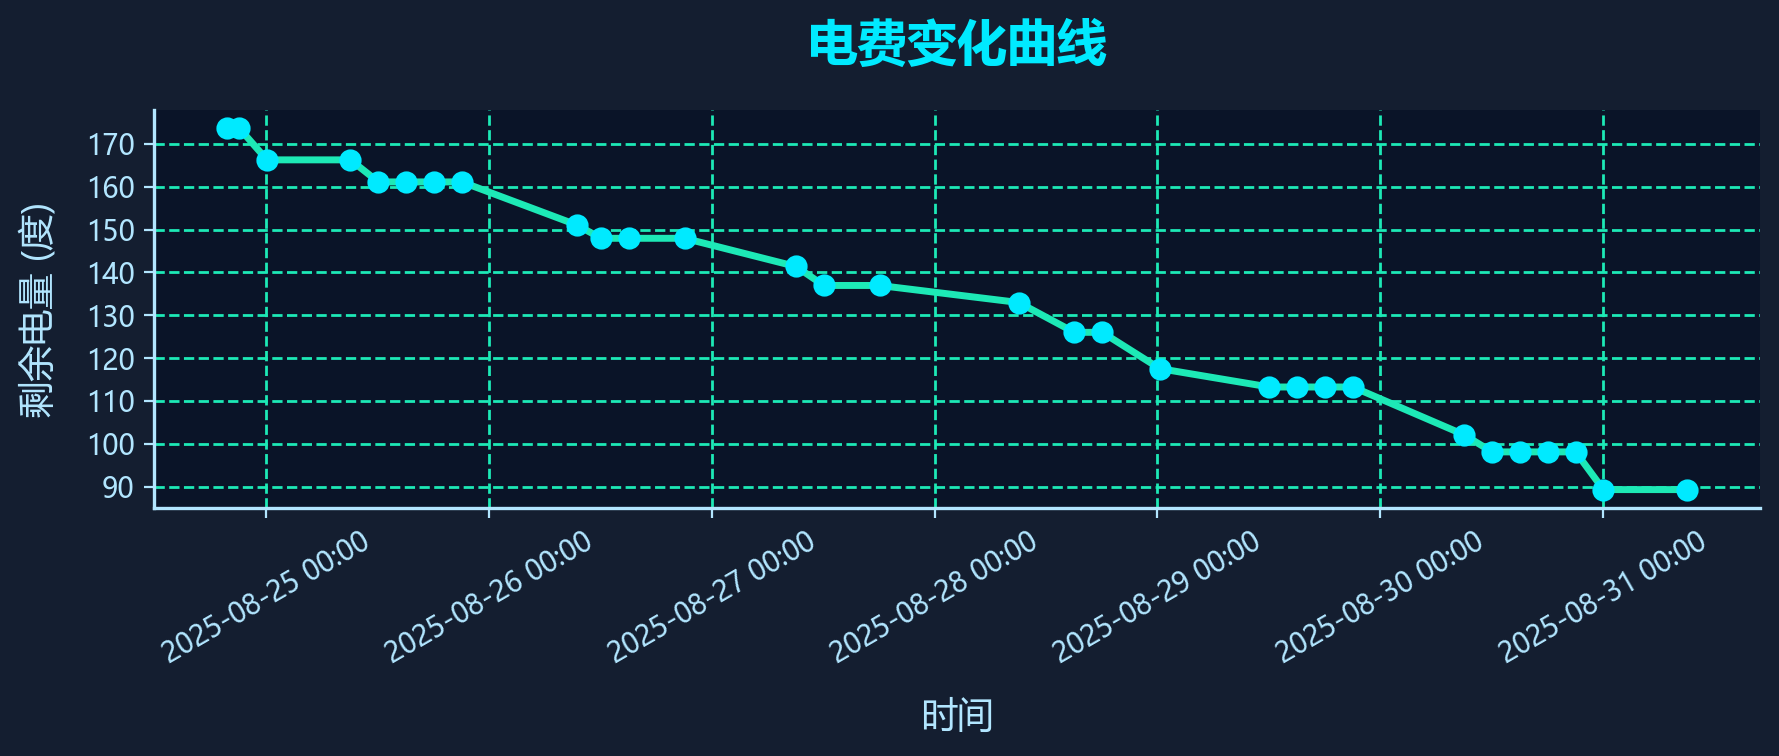
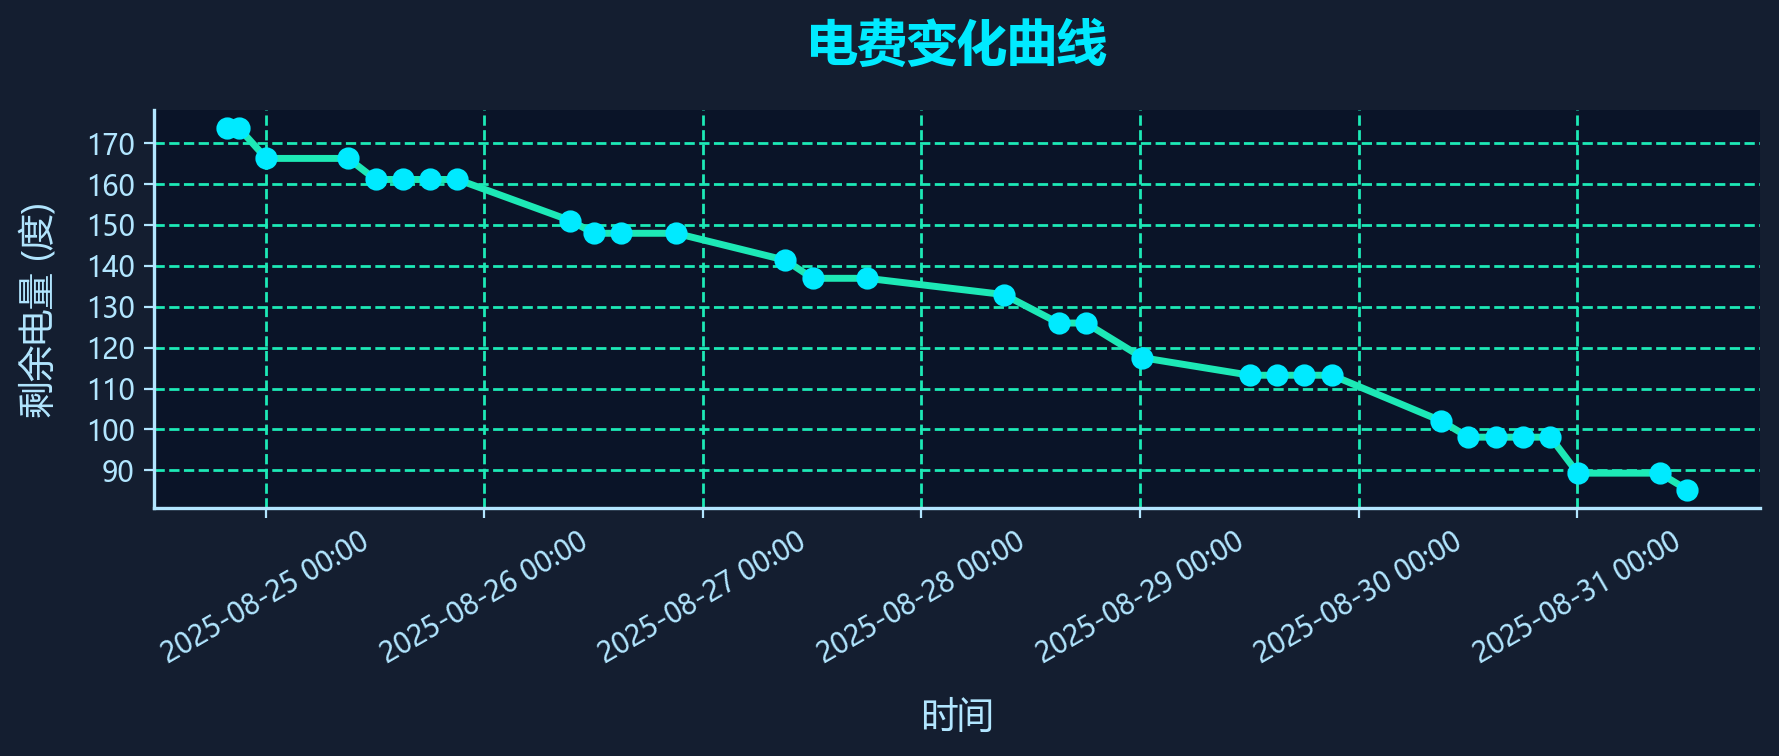
2025-08-31 12:03 自动提交电费变更

diff --git a/data/debug_page_source.html b/data/debug_page_source.html
@@ -2,7 +2,7 @@
     <meta http-equiv="Content-Type" content="text/html; charset=UTF-8">
     <meta http-equiv="X-UA-Compatible" content="IE=edge">
     <meta name="viewport" content="width=device-width, initial-scale=1, user-scalable=no">
-    <meta name="_csrf" content="7f46b8b9-85e0-4599-8257-20ba317c5a0d">
+    <meta name="_csrf" content="57badfdc-db40-4007-b65f-41e2ab20ae10">
     <meta name="_csrf_header" content="X-CSRF-TOKEN">
     <link type="image/png" href="/epay/images/nju/icon.png" rel="shortcut icon">
     <link type="text/css" rel="stylesheet" href="/epay/css/wxpage/weui.min.css">
@@ -32,7 +32,7 @@
 
 
 <body>
-<div id="app"><div class="centent"><div class="top"><div class="clearfix"><span class="fl">持卡人姓名：<i>吴相民</i></span></div> <div class="clearfix"><span class="fl">校园卡余额：<i class="green">0.00元</i></span></div></div> <div class="line"></div> <div class="cont"><div class="clearfix"><span class="fl">缴费地址：<i>仙林校区 18幢 18栋第17层1702</i></span></div> <div class="clearfix"><span class="fl">剩余电量：<i>89.31度</i><em></em></span></div> <!----> <!----></div> <div class="num clearfix"><div style="display: flex; flex-wrap: wrap;"><span class="active">10元</span><span class="">20元</span><span class="">50元</span><span class="">100元</span><span class="">200元</span><span class="">自定义</span></div></div> <div class="inputbox" style="display: none;"><input type="text" placeholder="请输入充值金额" pattern="[0-9]*" maxlength="4" id="amount"></div> <div class="footer">充值</div> <div class="desc">充值时间：每天00:05-23:55</div> <div class="wapat"><div class="wapat-inner"><div class="wapat-title">错误！</div> <div class="wapat-btn-box"><div class="wapat-btn wapat-btn-ok">确定</div></div></div></div></div></div>
+<div id="app"><div class="centent"><div class="top"><div class="clearfix"><span class="fl">持卡人姓名：<i>吴相民</i></span></div> <div class="clearfix"><span class="fl">校园卡余额：<i class="green">0.00元</i></span></div></div> <div class="line"></div> <div class="cont"><div class="clearfix"><span class="fl">缴费地址：<i>仙林校区 18幢 18栋第17层1702</i></span></div> <div class="clearfix"><span class="fl">剩余电量：<i>85.29度</i><em></em></span></div> <!----> <!----></div> <div class="num clearfix"><div style="display: flex; flex-wrap: wrap;"><span class="active">10元</span><span class="">20元</span><span class="">50元</span><span class="">100元</span><span class="">200元</span><span class="">自定义</span></div></div> <div class="inputbox" style="display: none;"><input type="text" placeholder="请输入充值金额" pattern="[0-9]*" maxlength="4" id="amount"></div> <div class="footer">充值</div> <div class="desc">充值时间：每天00:05-23:55</div> <div class="wapat"><div class="wapat-inner"><div class="wapat-title">错误！</div> <div class="wapat-btn-box"><div class="wapat-btn wapat-btn-ok">确定</div></div></div></div></div></div>
 
 
 
